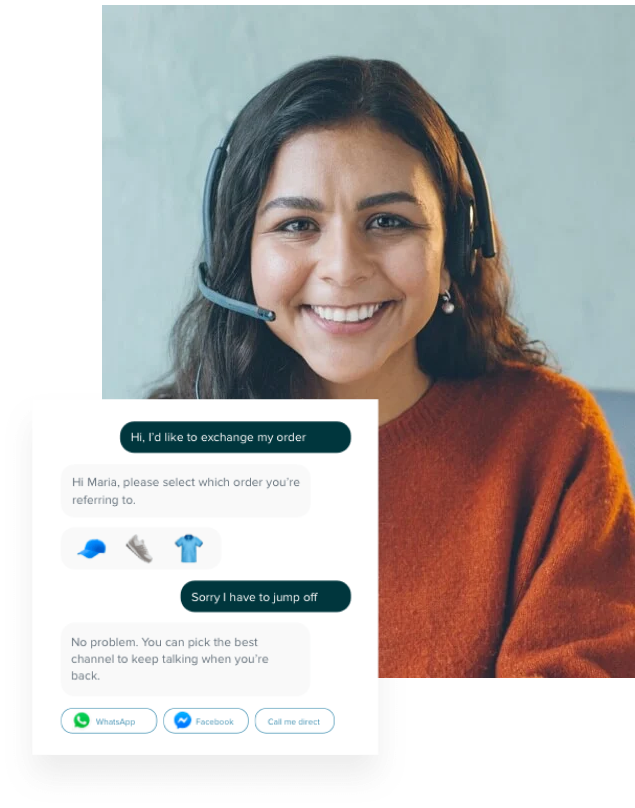
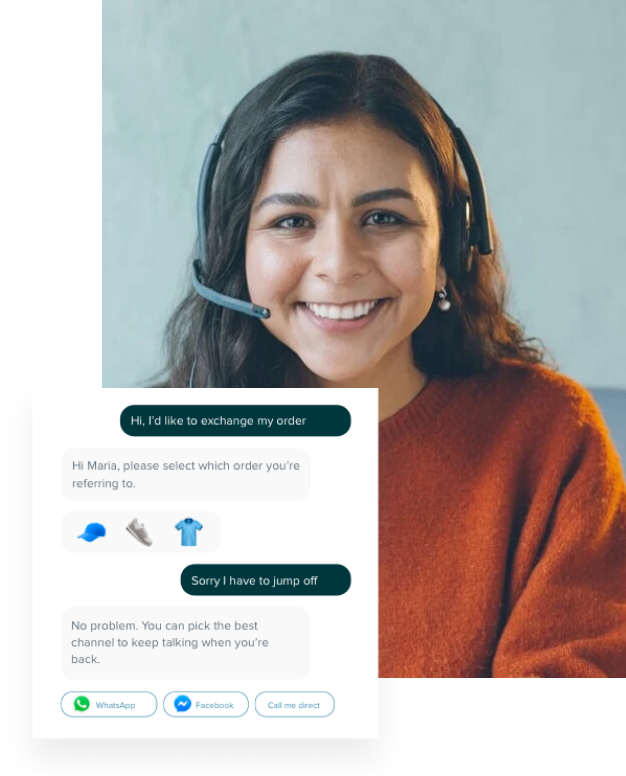
feat: add "section-where-good-conversations"

diff --git a/index.html b/index.html
@@ -74,21 +74,28 @@
                 <h2>Where good conversations become great experiences</h2>
                 <p>To make customers happy, you need conversational experiences—connected communication across any channel.</p>
             </div>
+
             <div class="content-where-good-conversations">
                 <div class="divisions-in-where-good-conversations">
                     <a class = "divisions-active" href="#">Service</a>
                     <a class="divisions-pasive" href="#">Sales</a>
                 </div>
+
                 <div class="discription-where-good-conversations">
                     <div class = "right-where-good-conversations">
                         <h3 class="text-">Give customers the best support</h3>
                         <p>Customers want to connect any time, any place. Meet them where they are with the Zendesk Suite, which provides sophisticated, seamless support that flows across channels.</p>
                         <a href="">Learn more</a>
-                        <div>
-                            <img src="imgs/SQUARESPACE.png" alt="NotFound">
-                            <p>“We’re here to help our customers succeed online, and that’s something we hear back from our customers. They just love our support channels.”</p>
-                            <p>Raphael Fontes</p>
-                            <p>Vice President of Customer Operations at Squarespace</p>
+                        <div class = "section-squarespace">
+                            <div class="line-SQUARESPACE"></div>
+                            <div class="content-squarespace">
+                                <img src="imgs/SQUARESPACE.png" alt="NotFound">
+                                <p>“We’re here to help our customers succeed online, and that’s something we hear back from our customers. They just love our support channels.”</p>
+                                <div class = "author-squarespace">
+                                    <p>Raphael Fontes</p>
+                                    <p>Vice President of Customer Operations at Squarespace</p>
+                                </div>
+                            </div>
                         </div>
                     </div>
                     <img src="imgs/where-good-conversations.png" alt="NotFound">

diff --git a/css/element-layout.css b/css/element-layout.css
@@ -111,37 +111,64 @@ nav div {
 }
 #section-where-good-conversations {
     display: flex;
-    padding: 64px 0px;
-    flex-direction: column;
-    justify-content: center;
-    align-items: center;
-    gap: 108px;
-}
-.title-text-where-good-conversations {
-    display: flex;
-    padding: 4px 320px;
+    padding: 64px 16px;
     flex-direction: column;
     justify-content: center;
     align-items: center;
     gap: 24px;
 }
+.title-text-where-good-conversations {
+    display: flex;
+    max-width: 600px;
+    padding: 4px 20px;
+    flex-direction: column;
+    align-items: center;
+    gap: 24px;
+}
 .content-where-good-conversations {
     display: flex;
+    padding: 0px 150px;
     flex-direction: column;
-    align-items: flex-start;
+    justify-content: center;
+    align-items: center;
     gap: 25px;
 }
 .divisions-in-where-good-conversations {
     display: flex;
-    padding: 9px 371px;
+    padding: 9px 433px;
     justify-content: center;
     align-items: center;
-    gap: 48px;
+    gap: 55px;
 }
 .discription-where-good-conversations {
     display: flex;
-    padding: 0px 8px;
-    justify-content: space-between;
-    align-items: center;
-    align-self: stretch;
+    justify-content: center;
+    align-items: flex-start;
+    align-content: flex-start;
+    gap: 100px;
+}
+.right-where-good-conversations {
+    display: flex;
+    min-width: 240px;
+    max-width: 390px;
+    padding: 12px 0px;
+    flex-direction: column;
+    align-items: flex-start;
+    gap: 41px;
+}
+.section-squarespace {
+    display: flex;
+    align-items: flex-start;
+    gap: 30px;
+}
+.content-squarespace{
+    display: flex;
+    flex-direction: column;
+    align-items: flex-start;
+    gap: 17px;
+}
+.author-squarespace{
+    display: flex;
+    flex-direction: column;
+    align-items: flex-start;
 }

diff --git a/css/styles-elements.css b/css/styles-elements.css
@@ -143,7 +143,7 @@ nav ul li a {
     color: #03363D;
     text-align: center;
     font-family: Roboto;
-    font-size: 48px;
+    font-size: 51px;
     font-style: normal;
     font-weight: 700;
     line-height: 56px; 
@@ -153,7 +153,7 @@ nav ul li a {
     color: #03363D;
     text-align: center;
     font-family: Roboto;
-    font-size: 20px;
+    font-size: 22px;
     font-style: normal;
     font-weight: 400;
     line-height: 28px;
@@ -162,7 +162,7 @@ nav ul li a {
 .divisions-pasive{
     color: #68737D;
     font-family: Roboto;
-    font-size: 15px;
+    font-size: 17px;
     font-weight: 400;
     line-height: 22px;
     letter-spacing: 2px;
@@ -172,7 +172,7 @@ nav ul li a {
 .divisions-active {
     color: #03363D;
     font-family: Roboto;
-    font-size: 16px;
+    font-size: 18px;
     font-style: normal;
     font-weight: 700;
     line-height: 22px;
@@ -183,7 +183,7 @@ nav ul li a {
 .right-where-good-conversations h3{
     color: #03363D;
     font-family: Roboto;
-    font-size: 32px;
+    font-size: 34px;
     font-style: normal;
     font-weight: 700;
     line-height: 40px;
@@ -191,7 +191,7 @@ nav ul li a {
 .right-where-good-conversations p{
     color: #17494D;
     font-family: Roboto;
-    font-size: 16px;
+    font-size: 17px;
     font-style: normal;
     font-weight: 300;
     line-height: 24px;
@@ -199,8 +199,13 @@ nav ul li a {
 .right-where-good-conversations a{
     color: #03363D;
     font-family: Roboto;
-    font-size: 18px;
+    font-size: 19px;
     font-style: normal;
     font-weight: 400;
     line-height: 27px;
+}
+.line-SQUARESPACE {
+    width: 2px;
+    height: 217px;
+    background: #C2C8CC;
 }
